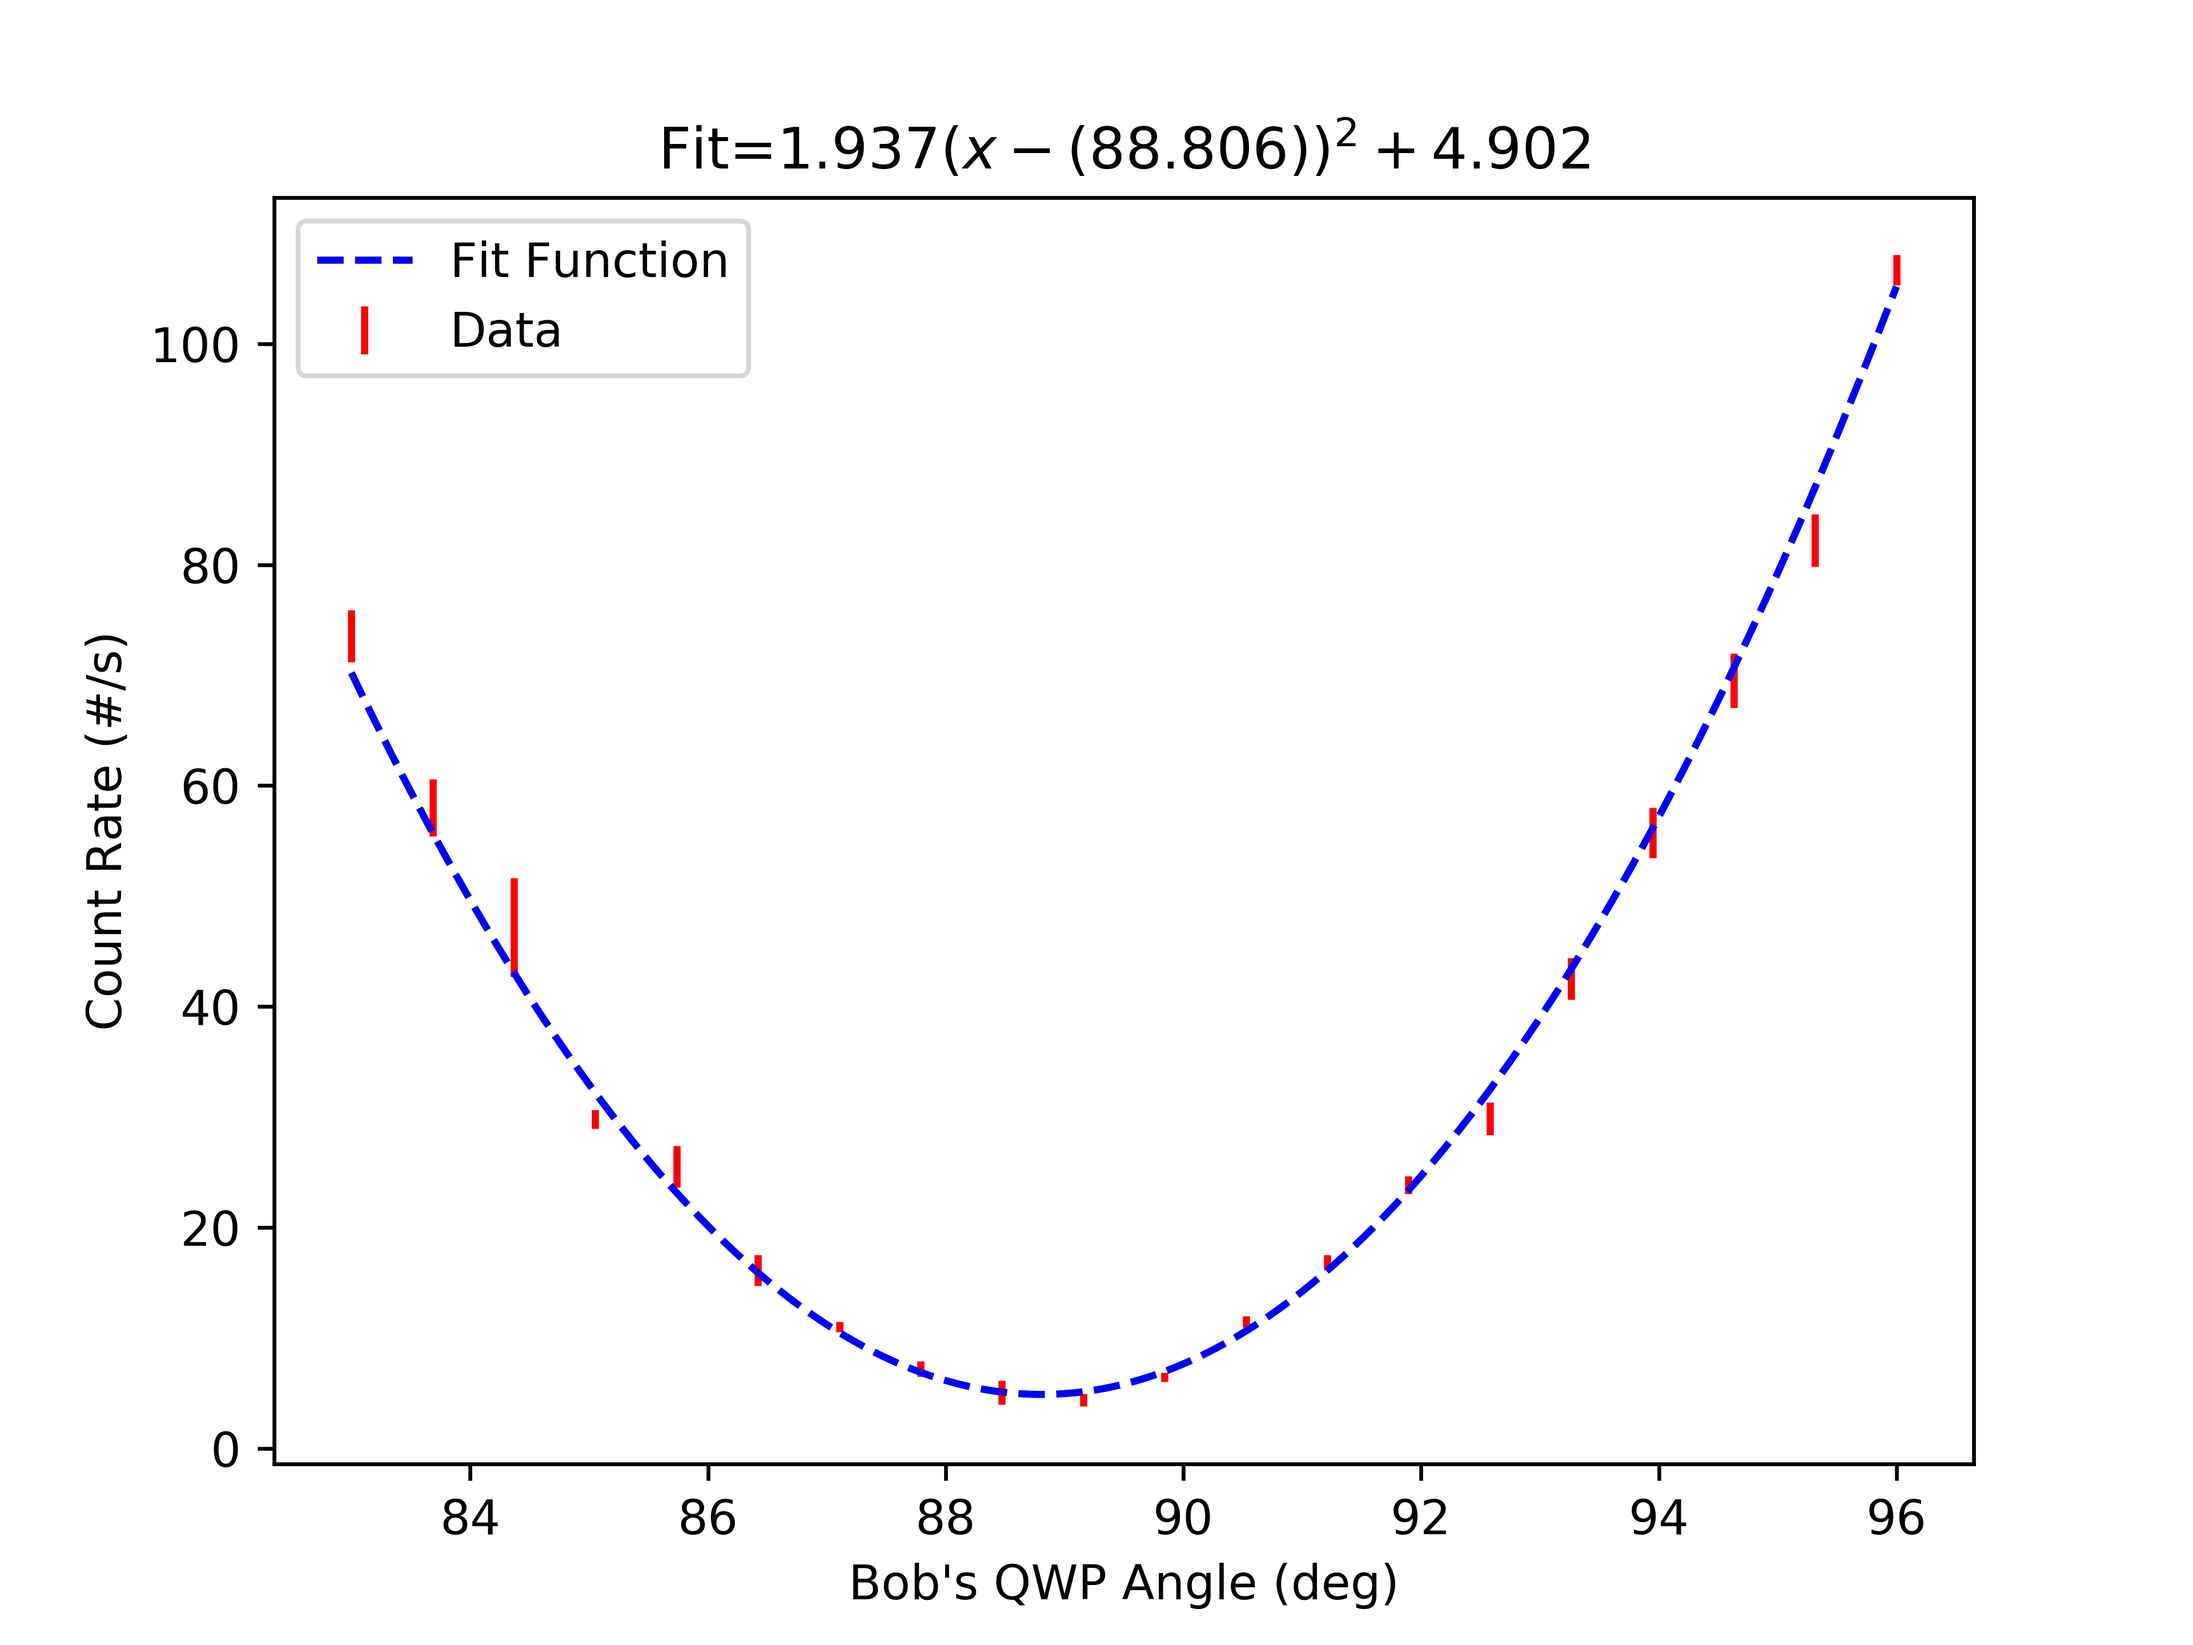
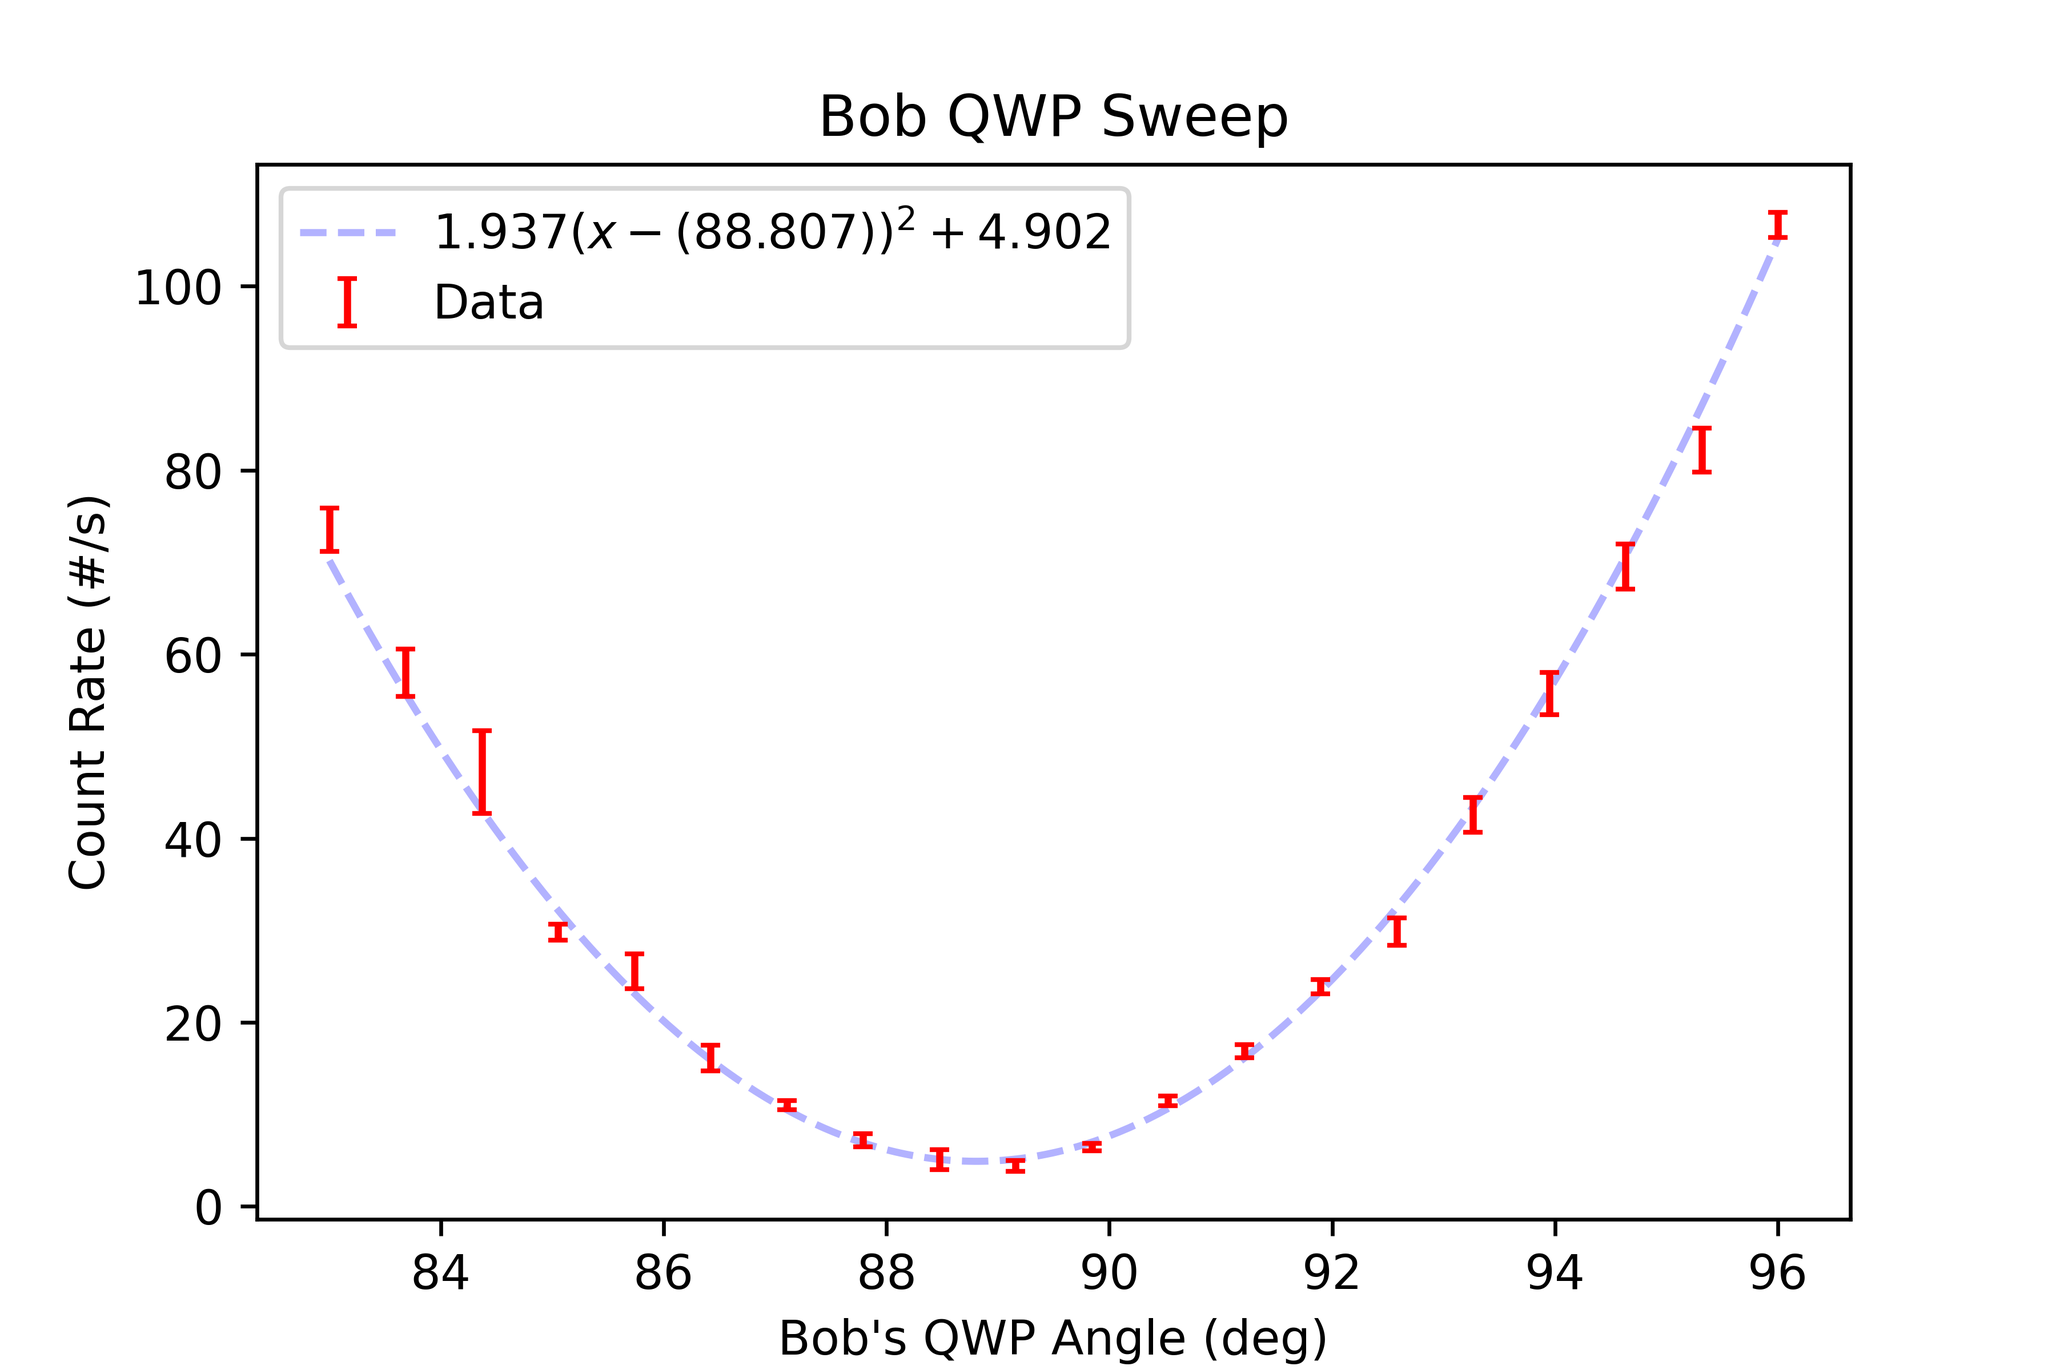
prettied up plots for BHWP, BQWP, BCHWP

diff --git a/calibration/BHWP/BHWP.py b/calibration/BHWP/BHWP.py
@@ -15,7 +15,7 @@ if __name__ == '__main__':
     SWEEP_PARAMS = [-19, -11, 20, 5, 3]
     TRIAL = 2
     SWEEP_PARAMS = [-15.5-3, -15.5+3, 20, 5, 3]
-    
+    '''
     # initialize the manager
     m = Manager(config='../config.json')
 
@@ -43,20 +43,30 @@ if __name__ == '__main__':
     df = m.output_data(f'BHWP_sweep{TRIAL}.csv')
     m.shutdown()
     '''
-    df = Manager.load_data('BHWP_sweep1.csv')
-    '''
+    df = Manager.load_data(f'BHWP_sweep{TRIAL}.csv')
+    angles, rates = df['B_HWP'], df['C4']
+    
+    #'''
     # fit the function
     params = analysis.fit('quadratic', angles, rates)
 
     # print fitted parameters
     print(f'Fit parameters = {params}')
 
+    # setup plot
+    fig = plt.figure(figsize=(6,4))
+    ax = fig.add_subplot(1,1,1)
+    
     # plotting
-    analysis.plot_errorbar(angles, rates, ms=0.1, fmt='ro', label='Data')
-    analysis.plot_func('quadratic', params, angles, color='b', linestyle='dashed', label=f'Fit Function')
+    analysis.plot_func('quadratic', params, angles, color='b', linestyle='dashed', label=f'${params[1].n:.3f}(x-({params[0].n:.3f}))^2 + {params[2].n:.3f}$', alpha=0.3)
+    analysis.plot_errorbar(angles, rates, ms=0.1, fmt='ro', capsize=2, label='Data')
+
+    # labels and such
+    plt.title('Bob HWP Sweep')
     plt.xlabel('Bob\'s HWP Angle (deg)')
     plt.ylabel('Count Rate (#/s)')
     plt.legend()
-    plt.title(f'Fit=${params[1].n:.3f}(x-{params[0].n:.3f})^2 + {params[2].n:.3f}$')
-    plt.savefig(f'BCHWP{TRIAL}.png', dpi=600)
+
+    # save and show
+    plt.savefig(f'BHWP_sweep{TRIAL}.png', dpi=600)
     plt.show()

diff --git a/calibration/BCHWP/BCHWP.py b/calibration/BCHWP/BCHWP.py
@@ -9,7 +9,7 @@ if __name__ == '__main__':
     # TRIAL = 1
     TRIAL = 0
     SWEEP_PARAMS = [-4, 4, 20, 5, 3]
-    
+    '''
     # initialize the manager
     m = Manager(config='../config.json')
 
@@ -32,9 +32,9 @@ if __name__ == '__main__':
     m.shutdown()
     
     '''
-    df = Manager.load_data('BCHWP_sweep1.csv')
+    df = Manager.load_data(f'BCHWP_sweep{TRIAL}.csv')
     angles, rates = df['B_C_HWP'], df['C4']
-    '''
+    # '''
 
     # fit the function
     params = analysis.fit('quadratic', angles, rates)
@@ -42,12 +42,18 @@ if __name__ == '__main__':
     # print fitted parameters
     print(f'Fit parameters = {params}')
 
+    # setup plot
+    fig = plt.figure(figsize=(6,4))
+    ax = fig.add_subplot(1,1,1)
+    
     # plotting
-    analysis.plot_errorbar(angles, rates, ms=0.1, fmt='ro', label='Data')
-    analysis.plot_func('quadratic', params, angles, color='b', linestyle='dashed', label=f'Fit Function')
+    analysis.plot_func('quadratic', params, angles, color='b', linestyle='dashed', label=f'${params[1].n:.3f}(x-({params[0].n:.3f}))^2 + {params[2].n:.3f}$', alpha=0.3)
+    analysis.plot_errorbar(angles, rates, ms=0.1, fmt='ro', capsize=2, label='Data')
+
+    # labels and such
     plt.xlabel('Bob\'s Creation HWP Angle (deg)')
     plt.ylabel('Count Rate (#/s)')
     plt.legend()
-    plt.title(f'Fit=${params[1].n:.3f}(x-{params[0].n:.3f})^2 + {params[2].n:.3f}$')
-    plt.savefig(f'BCHWP{TRIAL}.png', dpi=600)
+    plt.title('Bob Creation HWP Sweep')
+    plt.savefig(f'BCHWP_sweep{TRIAL}.png', dpi=600)
     plt.show()

diff --git a/calibration/BQWP/BQWP.py b/calibration/BQWP/BQWP.py
@@ -8,6 +8,7 @@ if __name__ == '__main__':
     TRIAL = 0
     SWEEP_PARAMS = [83, 96, 20, 5, 3]
     
+    '''
     # initialize the manager
     m = Manager(config='../config.json')
 
@@ -28,21 +29,30 @@ if __name__ == '__main__':
     df = m.output_data(f'BQWP_sweep{TRIAL}.csv')
     m.shutdown()
     '''
-    df = Manager.load_data('BQWP_sweep1.csv')
+    df = Manager.load_data(f'BQWP_sweep{TRIAL}.csv')
     angles, rates = df['B_QWP'], df['C4']
-    '''
+    # '''
+
     # fit the function
     params = analysis.fit('quadratic', angles, rates)
 
     # print fitted parameters
     print(f'Fit parameters = {params}')
 
+    # setup plot
+    fig = plt.figure(figsize=(6,4))
+    ax = fig.add_subplot(1,1,1)
+    
     # plotting
-    analysis.plot_func('quadratic', params, angles, color='b', linestyle='dashed', label=f'Fit Function')
-    analysis.plot_errorbar(angles, rates, ms=0.1, fmt='ro', label='Data')
+    analysis.plot_func('quadratic', params, angles, color='b', linestyle='dashed', label=f'${params[1].n:.3f}(x-({params[0].n:.3f}))^2 + {params[2].n:.3f}$', alpha=0.3)
+    analysis.plot_errorbar(angles, rates, ms=0.1, fmt='ro', capsize=2, label='Data')
+
+    # labels and such
+    plt.title(f'Bob QWP Sweep')
     plt.xlabel('Bob\'s QWP Angle (deg)')
     plt.ylabel('Count Rate (#/s)')
     plt.legend()
-    plt.title(f'Fit=${params[1].n:.3f}(x-({params[0].n:.3f}))^2 + {params[2].n:.3f}$')
+
+    # save and show
     plt.savefig(f'BQWP_sweep{TRIAL}.png', dpi=600)
     plt.show()
